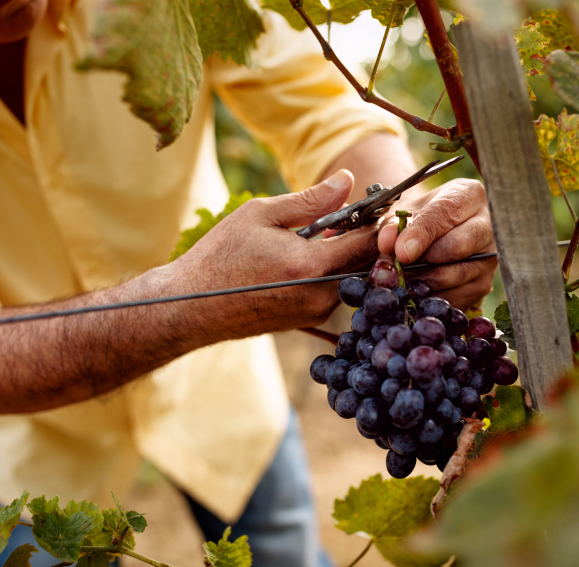
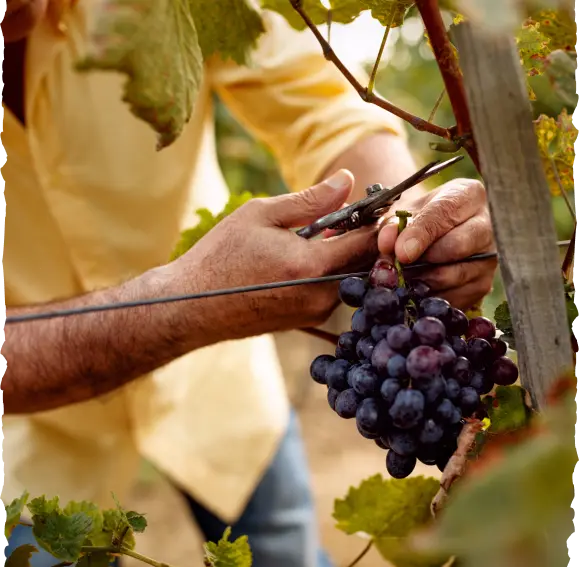
update frame image

diff --git a/src/sections/History/History.module.css b/src/sections/History/History.module.css
@@ -1,48 +1,10 @@
-.frame::before,
-.frame::after {
-	position: absolute;
-	display: inline-block;
-	top: 0;
-	width: 11px;
-	height: 328px;
-	transform: rotateY(180deg);
-	overflow: hidden;
-	z-index: 5;
-}
-
-.frame::before {
-	content: url('/icons/history-frame.svg');
-	left: -1px;
-}
-
-.frame::after {
-	content: url('/icons/history-frame.svg');
-	right: -1px;
-	rotate: 180deg;
-}
-
-@media screen and (min-width: 768px) {
-	.frame::before,
-	.frame::after {
-		height: 312px;
-	}
-}
-
-@media screen and (min-width: 1280px) {
-	.frame::before,
-	.frame::after {
-		width: 20px;
-		height: 579px;
-	}
-}
-
 @media screen and (min-width: 1280px) {
 	.grape::before {
 		content: url('/icons/bg-grape-section-2.svg');
 		position: absolute;
 		display: inline-block;
 		top: -62px;
-		left: 480px;
+		left: 452px;
 		width: 214px;
 		height: 235px;
 	}

diff --git a/src/sections/History/History.tsx b/src/sections/History/History.tsx
@@ -16,10 +16,10 @@ export const History: FC = () => (
 	<Section
 		id={historyData.id}
 		sectionStyles='pt-[60px] pb-[30px] md:pt-20 md:pb-10 lg:pt-[142px] lg:pb-20'
-		containerStyles={`md:flex md:items-center md:justify-between lg:relative ${s.grape}`}
+		containerStyles='md:flex md:items-center md:justify-between'
 	>
 		<div
-			className={`relative mb-12 h-[328px] md:m-0 md:h-[312px] md:w-[300px] lg:h-[579px] lg:w-[567px] ${s.frame}`}
+			className={`relative mb-12 h-[328px] md:m-0 md:h-[312px] md:w-[300px] lg:h-[579px] lg:w-[567px] ${s.grape}`}
 		>
 			<Image
 				fill
